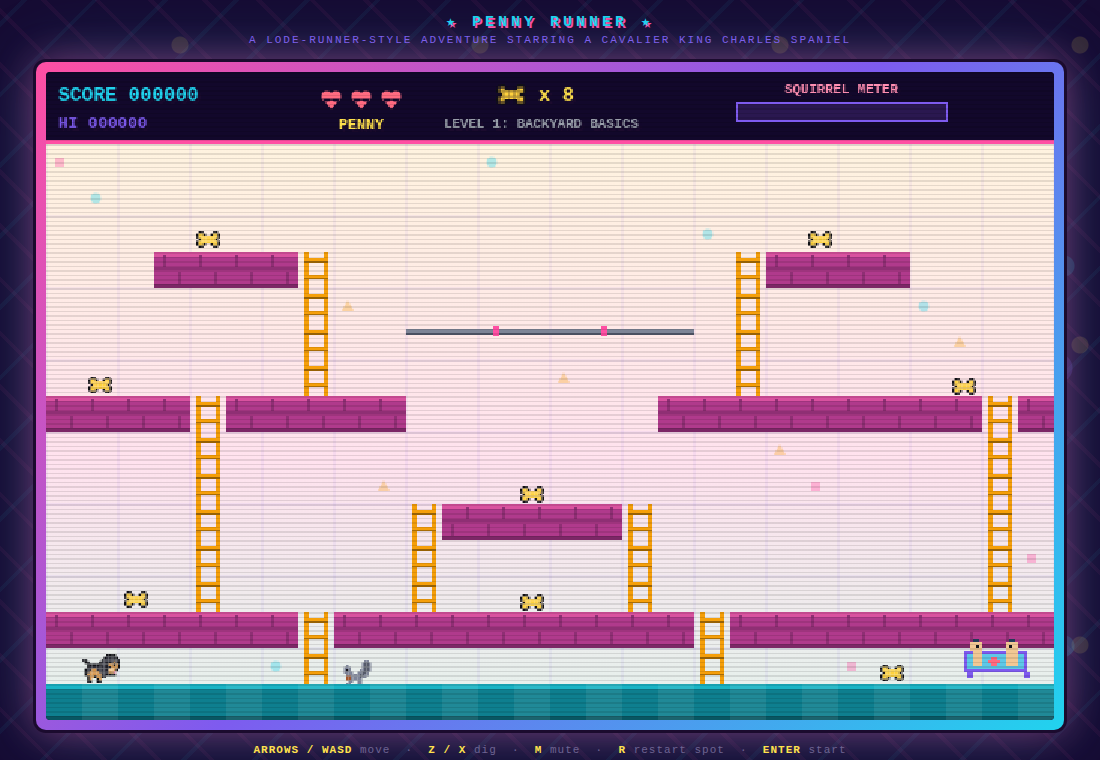
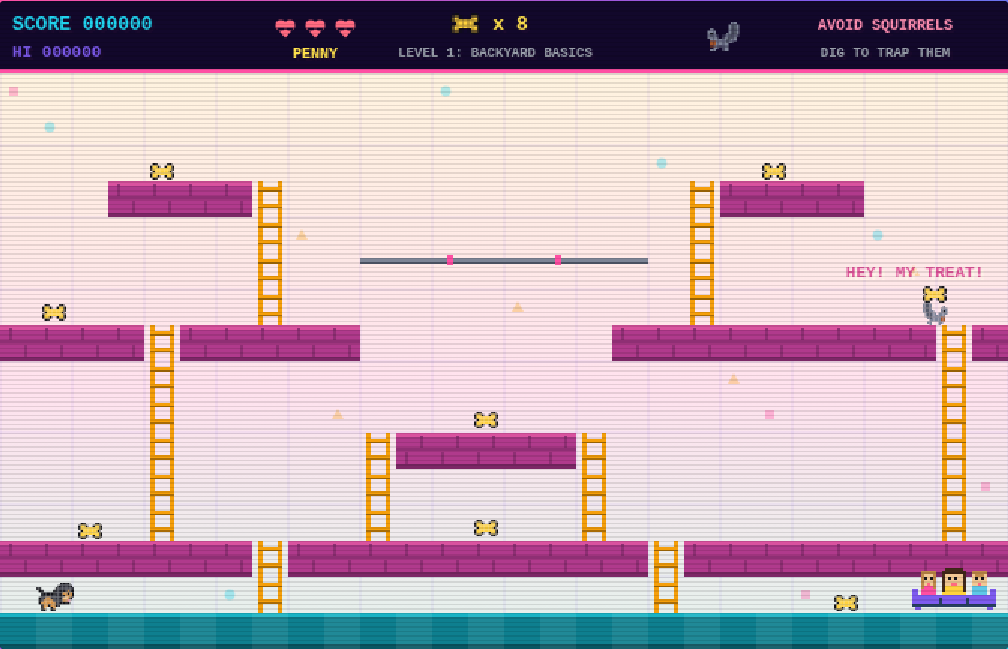
Make squirrels lethal (Lode Runner style) and redesign the family
- Squirrels now cost a life on contact instead of being booped; remove
  the distraction meter and forced-chase entirely per design check-in.
- Trapped squirrels are safe to run across; Penny gets brief spawn
  invulnerability so she can't be cheaply re-killed.
- Level 1's squirrel moves slowly to ease players in.
- HUD swaps the squirrel meter for a proximity danger warning.
- Family couch now shows three kids: two girls and a boy, two with light
  brown hair and the 9-year-old girl with dark brown hair.

diff --git a/game.js b/game.js
@@ -19,11 +19,9 @@ const DIG_TIME     = 0.34;   // s, penny locked while digging
 const HOLE_LIFE    = 5.2;    // s before a hole refills
 const HOLE_WARN    = 4.0;    // s, when refill flicker starts
 const TRAP_TIME    = 2.9;    // s a squirrel stays trapped
-const DISTRACT_RANGE = 5 * T;
-const DISTRACT_FILL  = 0.42; // meter per second near a squirrel
-const DISTRACT_DECAY = 0.55;
-const DISTRACT_TIME  = 1.35; // s of uncontrollable squirrel-chasing
-const FOCUS_TIME     = 4.0;  // s of immunity after shaking it off
+const SLOW_FACTOR  = 0.6;    // speed of a "slow" (tutorial) squirrel
+const SPAWN_INVULN = 1.6;    // s of immunity after (re)spawning
+const SQRL_WARN    = 3.6 * T; // distance at which the HUD warns of a squirrel
 
 const YELLS = ['RADICAL!', 'TUBULAR!', 'PAW-SOME!', 'TOTALLY!', 'WOOF!',
                'BODACIOUS!', 'AS IF!', 'COWABUNGA!', 'YUM!'];
@@ -59,7 +57,7 @@ const LEVELS = [
   },
   {
     name: 'LEVEL 2: SQUIRREL PARK',
-    tip: 'Squirrels are SO distracting... stay focused, Penny!',
+    tip: 'Watch out - squirrels are not friends! One touch and you lose a life.',
     map: [
       '............................',
       '..t.....................t...',
@@ -110,6 +108,7 @@ const PAL = {
   p: '#ff8fb2', g: '#7e8498', G: '#555a6a', r: '#a3552c', e: '#22222a',
   y: '#ffd23e', b: '#5ec8e8', m: '#ff4fa3', v: '#7e5bef', n: '#274060',
   s: '#f2c894', h: '#ff6b81',
+  L: '#c08a4a', D: '#43291a', // kids' hair: light brown / dark brown
 };
 
 // Penny, facing right. 16 x 12.
@@ -241,24 +240,25 @@ const TREAT = [[
   '.oo....oo.',
 ]];
 
-// The family on the couch. 24 x 16.
+// The family: three kids on the couch. Two girls + a boy; two with light
+// brown hair (L), one girl (the 9-year-old) with dark brown hair (D). 28 x 16.
 const FAMILY = [[
-  '........................',
-  '...nn..........nn.......',
-  '..ssss........ssss......',
-  '..ssks........skss......',
-  '..ssss........ssss......',
-  'vvvsssvvvvvvvvssssvvv...',
-  'vbbsssbbbbbbbbssssbbv...',
-  'vbbsssbbbhhbbbssssbbv...',
-  'vbbsssbbhhhhbbssssbbv...',
-  'vbbsssbbbhhbbbssssbbv...',
-  'vbbbbbbbbbbbbbbbbbbbv...',
-  'vvvvvvvvvvvvvvvvvvvvv...',
-  '.vv.................vv..',
-  '.vv.................vv..',
-  '........................',
-  '........................',
+  '............................',
+  '...........DDDDDD...........',
+  '...LLLLL..DDDDDDDD..LLLLL...',
+  '...LsssL..DssssssD..sLLLs...',
+  '...LkskL..DskskssD..sksks...',
+  '...LsssL..DssssssD..sssss...',
+  '...LshsL..DsshhssD..sshss...',
+  '...LmmmL..DyyyyyyD..bbbbb...',
+  'vv.mmmmm..DyyyyyyD..bbbbb.vv',
+  'vv.mmmmm..yyyyyyyy..bbbbb.vv',
+  'vvvvvvvvvvvvvvvvvvvvvvvvvvvv',
+  'vvvvvvvvvnvvvvvvvvnvvvvvvvvv',
+  'vvvvvvvvvnvvvvvvvvnvvvvvvvvv',
+  'nnnnnnnnnnnnnnnnnnnnnnnnnnnn',
+  '.vv......................vv.',
+  '............................',
 ]];
 
 function buildSprite(rows, scale) {
@@ -381,7 +381,7 @@ function loadLevel(n) {
       let ch = L.map[r][c];
       if (ch === 't') { treats.push({ c, r, got: false }); ch = '.'; }
       else if (ch === 'P') { penny = makePenny(c, r); ch = '.'; }
-      else if (ch === 's') { squirrels.push(makeSquirrel(c, r)); ch = '.'; }
+      else if (ch === 's') { squirrels.push(makeSquirrel(c, r, n === 0)); ch = '.'; } // level 1 squirrels are slow
       else if (ch === 'F') { family = { c, r, x: c * T + T / 2, y: r * T + T / 2 }; ch = '.'; }
       row.push(ch);
     }
@@ -393,16 +393,15 @@ function makePenny(c, r) {
   return {
     x: c * T + T / 2, y: r * T + T / 2, spawnC: c, spawnR: r,
     face: 1, anim: 0, falling: false, onBar: false, climbing: false,
-    digT: 0, digDir: 0, distract: 0, distractT: 0, focusT: 0, stunT: 0,
-    tailWag: 0,
+    digT: 0, digDir: 0, invuln: SPAWN_INVULN, tailWag: 0,
   };
 }
-function makeSquirrel(c, r) {
+function makeSquirrel(c, r, slow) {
   return {
     x: c * T + T / 2, y: r * T + T / 2, spawnC: c, spawnR: r,
     face: -1, anim: Math.random() * 9, falling: false, climbing: false,
     trapped: 0, scamperT: 0, thinkT: Math.random() * .2, lr: 0, ud: 0,
-    carrying: null, outC: 0, outR: 0,
+    carrying: null, spd: SQRL_SPEED * (slow ? SLOW_FACTOR : 1),
   };
 }
 
@@ -596,7 +595,7 @@ function updateSquirrel(s, dt) {
   }
   if (s.scamperT > 0) s.scamperT -= dt;
 
-  const speed = s.scamperT > 0 ? SQRL_SPEED * 1.9 : SQRL_SPEED;
+  const speed = s.scamperT > 0 ? s.spd * 1.7 : s.spd;
   const ox = s.x;
   moveActor(s, s.lr, s.ud, speed, dt);
   if (s.lr !== 0 && Math.abs(s.x - ox) < 0.01 && !s.falling) s.face *= -1; // bonked a wall
@@ -644,52 +643,19 @@ function loseLife(voluntary) {
 function respawnPenny() {
   penny.x = center(penny.spawnC); penny.y = center(penny.spawnR);
   penny.falling = false; penny.onBar = false; penny.climbing = false;
-  penny.distract = 0; penny.distractT = 0; penny.focusT = 2; penny.stunT = 0;
+  penny.invuln = SPAWN_INVULN;
   for (const s of squirrels) respawnSquirrel(s);
 }
 
 /* -------------------------------- update ------------------------------- */
-function nearestSquirrel() {
-  let best = null, bd = 1e9;
-  for (const s of squirrels) {
-    if (s.trapped > 0) continue;
-    const d = Math.hypot(s.x - penny.x, s.y - penny.y);
-    if (d < bd) { bd = d; best = s; }
-  }
-  return { s: best, d: bd };
-}
-
 function updatePlay(dt) {
   levelTime += dt;
   updateHoles(dt);
-
-  // --- distraction meter ---
-  const { s: nearSq, d } = nearestSquirrel();
-  if (penny.distractT > 0) {
-    penny.distractT -= dt;
-    if (penny.distractT <= 0) {
-      penny.focusT = FOCUS_TIME;
-      award(0, penny.x, penny.y - 20, 'GOOD GIRL!');
-    }
-  } else if (penny.focusT > 0) {
-    penny.focusT -= dt;
-  } else if (nearSq && d < DISTRACT_RANGE && Math.abs(nearSq.y - penny.y) < T * 1.5) {
-    penny.distract += DISTRACT_FILL * dt * (1.5 - d / DISTRACT_RANGE);
-    if (penny.distract >= 1) {
-      penny.distract = 0; penny.distractT = DISTRACT_TIME;
-      award(0, penny.x, penny.y - 20, 'SQUIRREL!!');
-      SFX.alert();
-    }
-  } else {
-    penny.distract = Math.max(0, penny.distract - DISTRACT_DECAY * dt);
-  }
+  if (penny.invuln > 0) penny.invuln -= dt;
 
   // --- penny input / movement ---
   let lr = 0, ud = 0;
-  if (penny.stunT > 0) penny.stunT -= dt;
-  else if (penny.distractT > 0 && nearSq) {
-    lr = Math.sign(nearSq.x - penny.x) || penny.face;   // must. chase. squirrel.
-  } else if (penny.digT <= 0) {
+  if (penny.digT <= 0) {
     if (keys['arrowleft'] || keys['a']) lr = -1;
     if (keys['arrowright'] || keys['d']) lr = 1;
     if (keys['arrowup'] || keys['w']) ud = -1;
@@ -698,25 +664,20 @@ function updatePlay(dt) {
     if ((keys['x'] || keys['e']) && !penny.falling && !penny.onBar) { keys['x'] = keys['e'] = false; tryDig(1); }
   }
   if (penny.digT > 0) penny.digT -= dt;
-  else {
-    const sp = penny.distractT > 0 ? PENNY_SPEED * 1.35 : PENNY_SPEED;
-    moveActor(penny, lr, ud, sp, dt);
-  }
+  else moveActor(penny, lr, ud, PENNY_SPEED, dt);
   penny.tailWag += dt * (lr !== 0 ? 14 : 6);
 
   // --- squirrels ---
   for (const s of squirrels) updateSquirrel(s, dt);
 
-  // --- boop! ---
-  for (const s of squirrels) {
-    if (s.trapped > 0 || s.scamperT > 0.5) continue;
-    if (Math.abs(s.x - penny.x) < 15 && Math.abs(s.y - penny.y) < 15) {
-      s.scamperT = 1.6; s.face = Math.sign(s.x - penny.x) || 1;
-      if (s.carrying) { s.carrying.c = colOf(s); s.carrying.r = rowOf(s); s.carrying.held = false; s.carrying = null; }
-      penny.distract = 0; penny.distractT = 0; penny.focusT = FOCUS_TIME; penny.stunT = 0.35;
-      award(25, penny.x, penny.y - 18, 'BOOP!');
-      SFX.boop();
-      heartBurst(penny.x, penny.y - 10, 2);
+  // --- a squirrel catches Penny: lose a life (Lode Runner style) ---
+  if (penny.invuln <= 0) {
+    for (const s of squirrels) {
+      if (s.trapped > 0) continue; // safe to run over a trapped squirrel
+      if (Math.abs(s.x - penny.x) < 14 && Math.abs(s.y - penny.y) < 14) {
+        loseLife(false);
+        return; // state changed to dead/gameover
+      }
     }
   }
 
@@ -902,22 +863,9 @@ function drawPenny() {
   const bounce = a.falling ? 0 : Math.sin(a.anim * 3) * (a.anim > 0 ? 1.2 : 0);
   const dx = px(a.x - img.width / 2);
   const dy = px(HUD + a.y - img.height + T / 2 - 1 + bounce);
-  if (a.stunT > 0 && Math.floor(frame / 3) % 2) return; // blink while stunned
+  if (a.invuln > 0 && Math.floor(frame / 4) % 2) return; // blink while invulnerable
   cx.drawImage(img, dx, dy);
 
-  // distracted thought-bubble
-  if (a.distractT > 0) {
-    const bx = px(a.x), by = px(HUD + a.y - 34 + Math.sin(stateT * 12) * 2);
-    cx.fillStyle = '#fff';
-    cx.beginPath(); cx.arc(bx, by, 12, 0, 7); cx.fill();
-    cx.beginPath(); cx.arc(bx - 8, by + 11, 3, 0, 7); cx.fill();
-    cx.strokeStyle = '#ff4fa3'; cx.lineWidth = 1.5;
-    cx.beginPath(); cx.arc(bx, by, 12, 0, 7); cx.stroke();
-    cx.drawImage(SPR.sqrlL[0], bx - 9, by - 7, 18, 14);
-    chunkyText('!!', bx + 15, by - 4, 13, '#ff4fa3');
-  } else if (a.focusT > FOCUS_TIME - 0.8) {
-    chunkyText('GOOD GIRL', px(a.x), px(HUD + a.y - 28), 9, '#d61f7f', 'center', '#fff6e8');
-  }
   // dig sparkle
   if (a.digT > 0) {
     cx.fillStyle = '#ffe14d';
@@ -984,16 +932,21 @@ function drawHUD() {
   cx.drawImage(SPR.treat, 300, 8, 20, 14);
   chunkyText(`x ${left}`, 340, 16, 13, '#ffe14d');
   chunkyText(LEVELS[level] ? LEVELS[level].name : '', 330, 35, 9, '#9aa0ab');
-  // squirrel-distraction meter
-  chunkyText('SQUIRREL METER', 530, 12, 9, '#ff8fb2');
-  cx.fillStyle = '#2a1850'; cx.fillRect(460, 20, 140, 12);
-  const lvl = penny ? (penny.distractT > 0 ? 1 : penny.distract) : 0;
-  cx.fillStyle = lvl > 0.7 ? '#ff4fa3' : '#21d3ee';
-  cx.fillRect(462, 22, 136 * Math.min(1, lvl), 8);
-  cx.strokeStyle = '#7e5bef'; cx.strokeRect(460.5, 20.5, 140, 12);
-  if (penny && penny.focusT > 0 && penny.distractT <= 0)
-    chunkyText('FOCUSED!', 530, 41, 9, '#ffe14d');
-  if (muted) chunkyText('MUTE', 630, 12, 9, '#9aa0ab');
+  // squirrel danger warning: nearest active squirrel
+  let near = 1e9;
+  for (const s of squirrels) {
+    if (s.trapped > 0) continue;
+    near = Math.min(near, Math.hypot(s.x - penny.x, s.y - penny.y));
+  }
+  cx.drawImage(SPR.sqrlL[0], 470, 14, 24, 19);
+  if (near < SQRL_WARN && Math.floor(frame / 8) % 2) {
+    chunkyText('!! SQUIRREL !!', 590, 16, 12, '#ff4fa3');
+    chunkyText('RUN, PENNY!', 590, 35, 10, '#ffe14d');
+  } else {
+    chunkyText('AVOID SQUIRRELS', 590, 16, 10, '#ff8fb2');
+    chunkyText('DIG TO TRAP THEM', 590, 35, 9, '#9aa0ab');
+  }
+  if (muted) chunkyText('MUTE', 760, 16, 9, '#9aa0ab');
 }
 
 function drawPopups() {
@@ -1063,7 +1016,7 @@ function drawTitle() {
 
   chunkyText('ARROWS/WASD: RUN + CLIMB     Z / X: DIG', W / 2, 318, 11, '#fdf6e7');
   chunkyText('COLLECT EVERY TREAT, THEN RUN HOME TO SNUGGLE', W / 2, 338, 11, '#fdf6e7');
-  chunkyText('WARNING: SQUIRRELS ARE EXTREMELY DISTRACTING', W / 2, 358, 11, '#ff8fb2');
+  chunkyText('WARNING: DODGE THE SQUIRRELS - DIG HOLES TO TRAP THEM!', W / 2, 358, 11, '#ff8fb2');
   if (Math.floor(stateT * 2) % 2 === 0)
     chunkyText('- PRESS ENTER TO PLAY -', W / 2, 392, 16, '#ffe14d');
   chunkyText(`HI SCORE ${String(hiscore).padStart(6, '0')}`, W / 2, 412, 11, '#7e5bef');

diff --git a/README.md b/README.md
@@ -28,14 +28,16 @@ Open `index.html` in any modern browser. No build step, no dependencies.
 ## The rules of being a good dog
 
 - **Treats** — collect every biscuit on the level. 100 points apiece.
-- **Squirrels** — they roam the level, swipe unattended treats, and worst of
-  all, they're *fascinating*. Linger near one and the **SQUIRREL METER**
-  fills; when it maxes out Penny loses her mind and chases the squirrel,
-  controls be darned. Catching up to one earns a **BOOP** (+25), the squirrel
-  drops whatever it stole, and Penny feels *focused* for a while.
-- **Digging** — bricks (pink) can be dug through, Lode Runner style. Holes
-  refill after a few seconds. Trap a squirrel for +75, but don't get caught
-  in a refilling hole yourself — that costs a heart.
+- **Squirrels** — they roam the level chasing Penny and swipe unattended
+  treats. **They are not friends: one touch costs Penny a life** (classic
+  Lode Runner). Penny is faster than they are on open ground, so kite them —
+  and the HUD flashes a warning when one gets close. Level 1's squirrel is
+  slow, to ease you in. Penny gets a brief flash of invulnerability each time
+  she (re)spawns.
+- **Digging** — bricks (pink) can be dug through, Lode Runner style. Drop a
+  squirrel into a hole to trap it (+75) — you can safely run across a trapped
+  squirrel's head. Holes refill after a few seconds, so don't get caught in
+  one yourself; that costs a heart too.
 - **Snuggle time** — once the last treat is eaten the family calls from the
   couch. Get there for the snuggle bonus (faster = bigger) and the next level.
 
